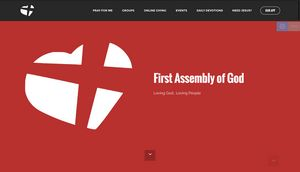
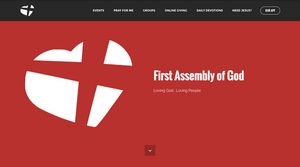
Changed Events page link

diff --git a/devotions.html b/devotions.html
@@ -46,7 +46,7 @@
                         <div class="hamburger-icon"></div>
                     </button>
 
-                    <ul class="nav-dropdown collapse pull-xs-right nav navbar-nav navbar-toggleable-sm" id="exCollapsingNavbar"><li class="nav-item"><a class="nav-link link" href="https://giddingsag.churchcenter.com/people/forms/146?open-in-church-center-modal=true" target="_blank">PRAY FOR ME</a></li><li class="nav-item"><a class="nav-link link" href="https://giddingsag.churchcenteronline.com/groups" target="_blank">GROUPS</a></li><li class="nav-item"><a class="nav-link link" href="https://giddingsag.churchcenter.com/giving?open-in-church-center-modal=true" target="_blank">ONLINE GIVING</a></li><li class="nav-item"><a class="nav-link link" href="https://giddingsag.churchcenteronline.com/registrations" target="_blank">EVENTS</a></li><li class="nav-item"><a class="nav-link link" href="devotions.html">DAILY DEVOTIONS</a></li><li class="nav-item"><a class="nav-link link" href="jesus.html">NEED JESUS?</a></li><li class="nav-item nav-btn"><a class="nav-link btn btn-white btn-white-outline" href="ourapp.html">OUR APP</a></li></ul>
+                    <ul class="nav-dropdown collapse pull-xs-right nav navbar-nav navbar-toggleable-sm" id="exCollapsingNavbar"><li class="nav-item"><a class="nav-link link" href="https://www.facebook.com/GiddingsAG" target="_blank">EVENTS</a></li><li class="nav-item"><a class="nav-link link" href="https://giddingsag.churchcenter.com/people/forms/146?open-in-church-center-modal=true" target="_blank">PRAY FOR ME</a></li><li class="nav-item"><a class="nav-link link" href="https://giddingsag.churchcenteronline.com/groups" target="_blank">GROUPS</a></li><li class="nav-item"><a class="nav-link link" href="https://giddingsag.churchcenter.com/giving?open-in-church-center-modal=true" target="_blank">ONLINE GIVING</a></li><li class="nav-item"><a class="nav-link link" href="devotions.html">DAILY DEVOTIONS</a></li><li class="nav-item"><a class="nav-link link" href="jesus.html">NEED JESUS?</a></li><li class="nav-item nav-btn"><a class="nav-link btn btn-white btn-white-outline" href="ourapp.html">OUR APP</a></li></ul>
                     <button hidden="" class="navbar-toggler navbar-close" type="button" data-toggle="collapse" data-target="#exCollapsingNavbar">
                         <div class="close-icon"></div>
                     </button>

diff --git a/index.html b/index.html
@@ -46,7 +46,7 @@
                         <div class="hamburger-icon"></div>
                     </button>
 
-                    <ul class="nav-dropdown collapse pull-xs-right nav navbar-nav navbar-toggleable-sm" id="exCollapsingNavbar"><li class="nav-item"><a class="nav-link link" href="https://giddingsag.churchcenter.com/people/forms/146?open-in-church-center-modal=true" target="_blank">PRAY FOR ME</a></li><li class="nav-item"><a class="nav-link link" href="https://giddingsag.churchcenteronline.com/groups" target="_blank">GROUPS</a></li><li class="nav-item"><a class="nav-link link" href="https://giddingsag.churchcenter.com/giving?open-in-church-center-modal=true" target="_blank">ONLINE GIVING</a></li><li class="nav-item"><a class="nav-link link" href="https://giddingsag.churchcenteronline.com/registrations" target="_blank">EVENTS</a></li><li class="nav-item"><a class="nav-link link" href="devotions.html">DAILY DEVOTIONS</a></li><li class="nav-item"><a class="nav-link link" href="jesus.html">NEED JESUS?</a></li><li class="nav-item nav-btn"><a class="nav-link btn btn-white btn-white-outline" href="ourapp.html">OUR APP</a></li></ul>
+                    <ul class="nav-dropdown collapse pull-xs-right nav navbar-nav navbar-toggleable-sm" id="exCollapsingNavbar"><li class="nav-item"><a class="nav-link link" href="https://www.facebook.com/GiddingsAG" target="_blank">EVENTS</a></li><li class="nav-item"><a class="nav-link link" href="https://giddingsag.churchcenter.com/people/forms/146?open-in-church-center-modal=true" target="_blank">PRAY FOR ME</a></li><li class="nav-item"><a class="nav-link link" href="https://giddingsag.churchcenteronline.com/groups" target="_blank">GROUPS</a></li><li class="nav-item"><a class="nav-link link" href="https://giddingsag.churchcenter.com/giving?open-in-church-center-modal=true" target="_blank">ONLINE GIVING</a></li><li class="nav-item"><a class="nav-link link" href="devotions.html">DAILY DEVOTIONS</a></li><li class="nav-item"><a class="nav-link link" href="jesus.html">NEED JESUS?</a></li><li class="nav-item nav-btn"><a class="nav-link btn btn-white btn-white-outline" href="ourapp.html">OUR APP</a></li></ul>
                     <button hidden="" class="navbar-toggler navbar-close" type="button" data-toggle="collapse" data-target="#exCollapsingNavbar">
                         <div class="close-icon"></div>
                     </button>

diff --git a/jesus.html b/jesus.html
@@ -46,7 +46,7 @@
                         <div class="hamburger-icon"></div>
                     </button>
 
-                    <ul class="nav-dropdown collapse pull-xs-right nav navbar-nav navbar-toggleable-sm" id="exCollapsingNavbar"><li class="nav-item"><a class="nav-link link" href="https://giddingsag.churchcenter.com/people/forms/146?open-in-church-center-modal=true" target="_blank">PRAY FOR ME</a></li><li class="nav-item"><a class="nav-link link" href="https://giddingsag.churchcenteronline.com/groups" target="_blank">GROUPS</a></li><li class="nav-item"><a class="nav-link link" href="https://giddingsag.churchcenter.com/giving?open-in-church-center-modal=true" target="_blank">ONLINE GIVING</a></li><li class="nav-item"><a class="nav-link link" href="https://giddingsag.churchcenteronline.com/registrations" target="_blank">EVENTS</a></li><li class="nav-item"><a class="nav-link link" href="devotions.html">DAILY DEVOTIONS</a></li><li class="nav-item"><a class="nav-link link" href="jesus.html">NEED JESUS?</a></li><li class="nav-item nav-btn"><a class="nav-link btn btn-white btn-white-outline" href="ourapp.html">OUR APP</a></li></ul>
+                    <ul class="nav-dropdown collapse pull-xs-right nav navbar-nav navbar-toggleable-sm" id="exCollapsingNavbar"><li class="nav-item"><a class="nav-link link" href="https://www.facebook.com/GiddingsAG" target="_blank">EVENTS</a></li><li class="nav-item"><a class="nav-link link" href="https://giddingsag.churchcenter.com/people/forms/146?open-in-church-center-modal=true" target="_blank">PRAY FOR ME</a></li><li class="nav-item"><a class="nav-link link" href="https://giddingsag.churchcenteronline.com/groups" target="_blank">GROUPS</a></li><li class="nav-item"><a class="nav-link link" href="https://giddingsag.churchcenter.com/giving?open-in-church-center-modal=true" target="_blank">ONLINE GIVING</a></li><li class="nav-item"><a class="nav-link link" href="devotions.html">DAILY DEVOTIONS</a></li><li class="nav-item"><a class="nav-link link" href="jesus.html">NEED JESUS?</a></li><li class="nav-item nav-btn"><a class="nav-link btn btn-white btn-white-outline" href="ourapp.html">OUR APP</a></li></ul>
                     <button hidden="" class="navbar-toggler navbar-close" type="button" data-toggle="collapse" data-target="#exCollapsingNavbar">
                         <div class="close-icon"></div>
                     </button>

diff --git a/ourapp.html b/ourapp.html
@@ -47,7 +47,7 @@
                         <div class="hamburger-icon"></div>
                     </button>
 
-                    <ul class="nav-dropdown collapse pull-xs-right nav navbar-nav navbar-toggleable-sm" id="exCollapsingNavbar"><li class="nav-item"><a class="nav-link link" href="https://giddingsag.churchcenter.com/people/forms/146?open-in-church-center-modal=true" target="_blank">PRAY FOR ME</a></li><li class="nav-item"><a class="nav-link link" href="https://giddingsag.churchcenteronline.com/groups" target="_blank">GROUPS</a></li><li class="nav-item"><a class="nav-link link" href="https://giddingsag.churchcenter.com/giving?open-in-church-center-modal=true" target="_blank">ONLINE GIVING</a></li><li class="nav-item"><a class="nav-link link" href="https://giddingsag.churchcenteronline.com/registrations" target="_blank">EVENTS</a></li><li class="nav-item"><a class="nav-link link" href="devotions.html">DAILY DEVOTIONS</a></li><li class="nav-item"><a class="nav-link link" href="jesus.html">NEED JESUS?</a></li><li class="nav-item nav-btn"><a class="nav-link btn btn-white btn-white-outline" href="ourapp.html">OUR APP</a></li></ul>
+                    <ul class="nav-dropdown collapse pull-xs-right nav navbar-nav navbar-toggleable-sm" id="exCollapsingNavbar"><li class="nav-item"><a class="nav-link link" href="https://www.facebook.com/GiddingsAG" target="_blank">EVENTS</a></li><li class="nav-item"><a class="nav-link link" href="https://giddingsag.churchcenter.com/people/forms/146?open-in-church-center-modal=true" target="_blank">PRAY FOR ME</a></li><li class="nav-item"><a class="nav-link link" href="https://giddingsag.churchcenteronline.com/groups" target="_blank">GROUPS</a></li><li class="nav-item"><a class="nav-link link" href="https://giddingsag.churchcenter.com/giving?open-in-church-center-modal=true" target="_blank">ONLINE GIVING</a></li><li class="nav-item"><a class="nav-link link" href="devotions.html">DAILY DEVOTIONS</a></li><li class="nav-item"><a class="nav-link link" href="jesus.html">NEED JESUS?</a></li><li class="nav-item nav-btn"><a class="nav-link btn btn-white btn-white-outline" href="ourapp.html">OUR APP</a></li></ul>
                     <button hidden="" class="navbar-toggler navbar-close" type="button" data-toggle="collapse" data-target="#exCollapsingNavbar">
                         <div class="close-icon"></div>
                     </button>

diff --git a/shop.html b/shop.html
@@ -46,7 +46,7 @@
                         <div class="hamburger-icon"></div>
                     </button>
 
-                    <ul class="nav-dropdown collapse pull-xs-right nav navbar-nav navbar-toggleable-sm" id="exCollapsingNavbar"><li class="nav-item"><a class="nav-link link" href="https://giddingsag.churchcenter.com/people/forms/146?open-in-church-center-modal=true" target="_blank">PRAY FOR ME</a></li><li class="nav-item"><a class="nav-link link" href="https://giddingsag.churchcenteronline.com/groups" target="_blank">GROUPS</a></li><li class="nav-item"><a class="nav-link link" href="https://giddingsag.churchcenter.com/giving?open-in-church-center-modal=true" target="_blank">ONLINE GIVING</a></li><li class="nav-item"><a class="nav-link link" href="https://giddingsag.churchcenteronline.com/registrations" target="_blank">EVENTS</a></li><li class="nav-item"><a class="nav-link link" href="devotions.html">DAILY DEVOTIONS</a></li><li class="nav-item"><a class="nav-link link" href="jesus.html">NEED JESUS?</a></li><li class="nav-item nav-btn"><a class="nav-link btn btn-white btn-white-outline" href="ourapp.html">OUR APP</a></li></ul>
+                    <ul class="nav-dropdown collapse pull-xs-right nav navbar-nav navbar-toggleable-sm" id="exCollapsingNavbar"><li class="nav-item"><a class="nav-link link" href="https://www.facebook.com/GiddingsAG" target="_blank">EVENTS</a></li><li class="nav-item"><a class="nav-link link" href="https://giddingsag.churchcenter.com/people/forms/146?open-in-church-center-modal=true" target="_blank">PRAY FOR ME</a></li><li class="nav-item"><a class="nav-link link" href="https://giddingsag.churchcenteronline.com/groups" target="_blank">GROUPS</a></li><li class="nav-item"><a class="nav-link link" href="https://giddingsag.churchcenter.com/giving?open-in-church-center-modal=true" target="_blank">ONLINE GIVING</a></li><li class="nav-item"><a class="nav-link link" href="devotions.html">DAILY DEVOTIONS</a></li><li class="nav-item"><a class="nav-link link" href="jesus.html">NEED JESUS?</a></li><li class="nav-item nav-btn"><a class="nav-link btn btn-white btn-white-outline" href="ourapp.html">OUR APP</a></li></ul>
                     <button hidden="" class="navbar-toggler navbar-close" type="button" data-toggle="collapse" data-target="#exCollapsingNavbar">
                         <div class="close-icon"></div>
                     </button>
